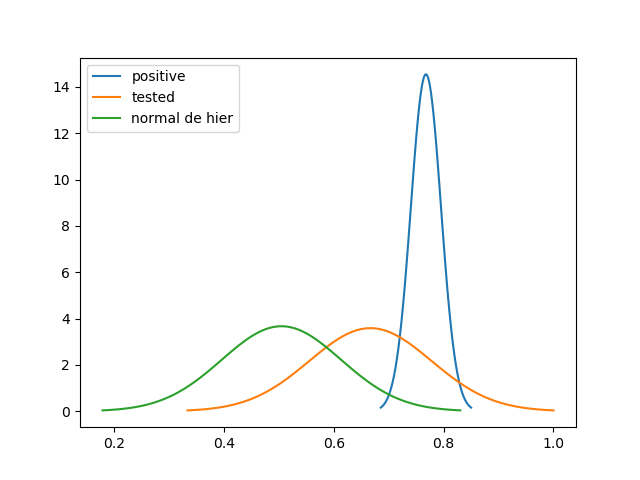
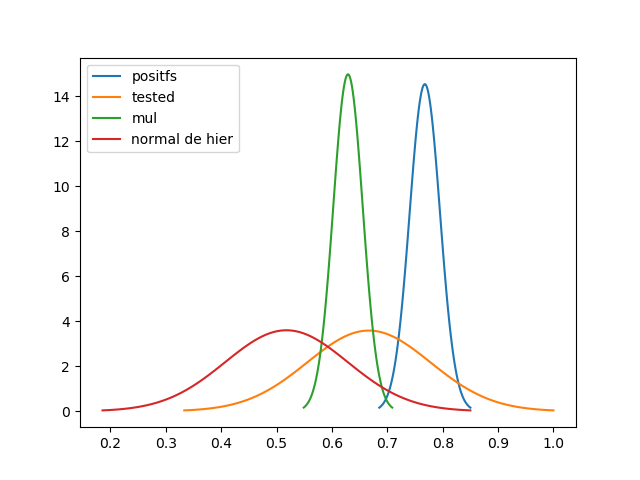
clean code

diff --git a/Python/bayesian_law/uncertainty.py b/Python/bayesian_law/uncertainty.py
@@ -15,6 +15,11 @@ import random
 from smooth import own_NRMAS_index, own_NRMAS
 from plot import plot_current_data
 from scipy import signal
+from plot import plot_normal
+
+
+
+
 
 def add_uncertainty(self, df):
 
@@ -26,70 +31,110 @@ def add_uncertainty(self, df):
     sensitivity_lower_bound = 0.85
 
     day = np_df[:,0]
-
-    num_positive = np_df[:,1]
-    num_positive_lower = np.array(np_df[:,1]+np_df[:,1]*((1-sensitivity_lower_bound)/sensitivity_lower_bound))
-    num_positive_upper = np.array(np_df[:,1]+np_df[:,1]*((1-sensitivity_upper_bound)/sensitivity_upper_bound))
-    num_positive_mean = (num_positive_upper+num_positive_lower)/2
-
-
-    norm_num_positive = np.mean(num_positive)/np.mean(num_positive)
-    norm_num_positive_lower = np.mean(num_positive)/np.mean(num_positive_lower)
-    norm_num_positive_upper = np.mean(num_positive)/np.mean(num_positive_upper)
-    norm_num_positive_mean = np.mean(num_positive)/np.mean(num_positive_mean)
-
-    std_num_postive = np.mean((norm_num_positive_lower-norm_num_positive_mean)/3)
-    x_1 = np.linspace(norm_num_positive_mean - 3*std_num_postive, norm_num_positive_mean + 3*std_num_postive, 100)
-    plt.plot(x_1, stats.norm.pdf(x_1, norm_num_positive_mean, std_num_postive),label ='positive')
-
-
-
-    num_tested = np_df[:,2]
-    num_tested_upper = 2* num_tested
-    num_tested_mean = (3/2)* num_tested
-
-    norm_num_tested =np.mean(num_tested)/np.mean(num_tested)
-    norm_num_tested_upper =np.mean(num_tested)/np.mean(num_tested_upper)
-    norm_num_tested_mean = np.mean(num_tested)/np.mean(num_tested_mean)
-
-    std_num_tested = np.mean((norm_num_tested-norm_num_tested_mean)/3)
-    x_2 = np.linspace(norm_num_tested_mean - 3*std_num_tested, norm_num_tested_mean + 3*std_num_tested, 100)
-    plt.plot(x_2, stats.norm.pdf(x_2, norm_num_tested_mean, std_num_tested), label = 'tested')
-
-
     num_hospitalised =  np_df[:,3]
     num_cumulative_hospitalizations = np_df[:,4]
     num_critical = np_df[:,5]
     num_fatalities = np_df[:,6]
 
-    # number infected
+    """
+    ============================================================================
+    calculation of positive bounds
+    ============================================================================
+    """
+    num_positive = np_df[:,1]
+    num_positive_lower = np.array(np_df[:,1]+np_df[:,1]*((1-sensitivity_lower_bound)/sensitivity_lower_bound))
+    num_positive_upper = np.array(np_df[:,1]+np_df[:,1]*((1-sensitivity_upper_bound)/sensitivity_upper_bound))
+    num_positive_mean = (num_positive_upper+num_positive_lower)/2
+    """
+    ============================================================================
+    calculation of tested bounds
+    ============================================================================
+    """
+    num_tested = np_df[:,2]
+    num_tested_upper = 2* num_tested
+    num_tested_mean = (3/2)* num_tested
+
+    """
+    ============================================================================
+    Normalisation of positive bounds
+    ============================================================================
+    """
+    norm_num_positive = np.mean(num_positive)/np.mean(num_positive)
+    norm_num_positive_lower = np.mean(num_positive)/np.mean(num_positive_lower)
+    norm_num_positive_upper = np.mean(num_positive)/np.mean(num_positive_upper)
+    """
+    ============================================================================
+    Normalisation of positive bounds
+    ============================================================================
+    """
+    norm_num_tested =np.mean(num_tested)/np.mean(num_tested)
+    norm_num_tested_upper =np.mean(num_tested)/np.mean(num_tested_upper)
+
+    """
+    ============================================================================
+    Mean and STD of positive bounds
+    ============================================================================
+    """
+    norm_num_positive_mean = np.mean(num_positive)/np.mean(num_positive_mean)
+    std_num_postive = np.mean((norm_num_positive_lower-norm_num_positive_mean)/3)
+    """
+    ============================================================================
+    Mean and STD of tested bounds
+    ============================================================================
+    """
+    norm_num_tested_mean = np.mean(num_tested)/np.mean(num_tested_mean)
+    std_num_tested = np.mean((norm_num_tested-norm_num_tested_mean)/3)
+
+    """
+    ============================================================================
+    Mean (postifs + tested) and STD (postifs + tested) of tested bounds
+
+    mu = (mu_1*sigma_1^2 + mu_2*sigma_2^2)/ (sigma_1^2 + sigma_2^2 )
+    sigma_2 = ( sigma_1^2 * sigma_2^2 )/ (sigma_1^2 + sigma_2^2 )
+    ============================================================================
+    """
+    mu_mul = (norm_num_positive_mean * std_num_postive**2)+(norm_num_tested_mean * std_num_tested**2)/(std_num_postive**2+std_num_tested**2)
+    var_mul = (std_num_tested**2*std_num_postive**2)/(std_num_postive**2+std_num_tested**2)
+    std_mul = math.sqrt(var_mul)
+
+    """
+    ============================================================================
+    Calules de mercredi
+    ============================================================================
+    """
     num_sym_lower = num_positive_lower
-    num_sym_lower = own_NRMAS(num_sym_lower,self.window)
-
-
     num_sym_upper = np_df[:,2]+num_positive_upper
-    num_positive_upper = own_NRMAS(num_positive_upper,self.window)
-
-    num_positive_mean = (num_positive_lower+num_positive_upper)/2
-
-    num_positive_lower = own_NRMAS(num_positive_lower,self.window)
-    num_sym_upper = own_NRMAS(num_sym_upper,self.window)
-
     num_sym_mean = (num_sym_lower+num_sym_upper)/2
 
-    norm_sym_mean =  num_positive/num_sym_mean
-    norm_sym_lower = num_positive/num_sym_lower
-    norm_sym_upper = num_positive/num_sym_upper
+    norm_sym_mean =  np.mean(num_positive)/np.mean(num_sym_mean)
+    norm_sym_lower = np.mean(num_positive)/np.mean(num_sym_lower)
+    norm_sym_upper = np.mean(num_positive)/np.mean(num_sym_upper)
 
-    std_vec = (norm_sym_lower-norm_sym_mean)/3
-
-    std = np.mean(std_vec)
+    std = (norm_sym_lower-norm_sym_mean)/3
     mu = np.mean(norm_sym_mean)
 
-    x = np.linspace(mu - 3*std, mu + 3*std, 100)
-    plt.plot(x, stats.norm.pdf(x, mu, std),label ='normal de hier')
-    plt.legend()
-    plt.savefig('Plot/normal_dis.png')
+    """
+    ============================================================================
+    Plot
+    ============================================================================
+    """
+    plot_normal(norm_num_positive_mean,std_num_postive,'positfs')
+    plot_normal(norm_num_tested_mean,std_num_tested, lab = 'tested')
+    plot_normal(mu_mul,std_mul, lab = 'mul')
+    plot_normal(mu,std,"normal de hier",'stop')
+
+    """
+    ============================================================================
+    smooth
+    ============================================================================
+    """
+    num_positive_lower = own_NRMAS(num_positive_lower,self.window)
+    num_positive_mean = own_NRMAS(num_positive_mean,self.window)
+    num_positive_upper = own_NRMAS(num_positive_upper,self.window)
+
+    num_sym_lower = own_NRMAS(num_sym_lower,self.window)
+    num_sym_mean  = own_NRMAS(num_sym_mean,self.window)
+    num_sym_upper = own_NRMAS(num_sym_upper,self.window)
 
 
 

diff --git a/Python/bayesian_law/plot.py b/Python/bayesian_law/plot.py
@@ -1,6 +1,7 @@
 
 import matplotlib.pyplot as plt
 import scipy.stats
+import scipy.stats as stats
 from scipy.stats import norm
 from scipy.integrate import odeint   # To integrate our equation
 from scipy.optimize import minimize
@@ -12,10 +13,12 @@ import json
 import math
 import random
 
-def plot_normal(mu,std):
+def plot_normal(mu,std,lab = 'Nan', arg = 'continue'):
     x = np.linspace(mu - 3*std, mu + 3*std, 100)
-    plt.plot(x, stats.norm.pdf(x, mu, std))
-    plt.savefig('Plot/normal_dis')
+    plt.plot(x, stats.norm.pdf(x, mu, std), label = lab)
+    plt.legend()
+    if arg =='stop':
+        plt.savefig('Plot/normal_dis.png')
 
 
 def __plot_predict__(self, pred, args='no_S'):
